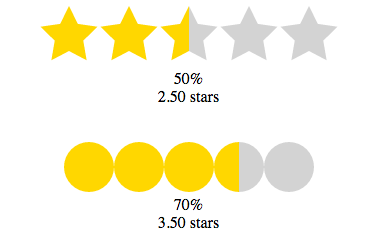
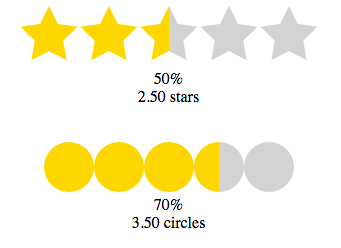
update screenshot

diff --git a/stars.html b/stars.html
@@ -17,9 +17,9 @@
 
     <!-- CIRCLES -->
     <div ng-controller="circlesController as circleCtrl">
-        <div star-rating stars="5" custom-figure-drawer="circleDrawer" outer-star-selection="stars" outer-percent="rating" rating-define="percent" rating-percent="70" star-radius="25" sel-color="gold" back-color="white"></div>
+        <div star-rating stars="5" custom-figure-drawer="circleDrawer" outer-star-selection="circles" outer-percent="rating" rating-define="percent" rating-percent="70" star-radius="25" sel-color="gold" back-color="white"></div>
         <div><span ng-bind="rating"></span>%</div>
-        <div><span ng-bind="stars"></span>&nbsp;stars</div>
+        <div><span ng-bind="circles"></span>&nbsp;circles</div>
     </div>
 
 </div>
